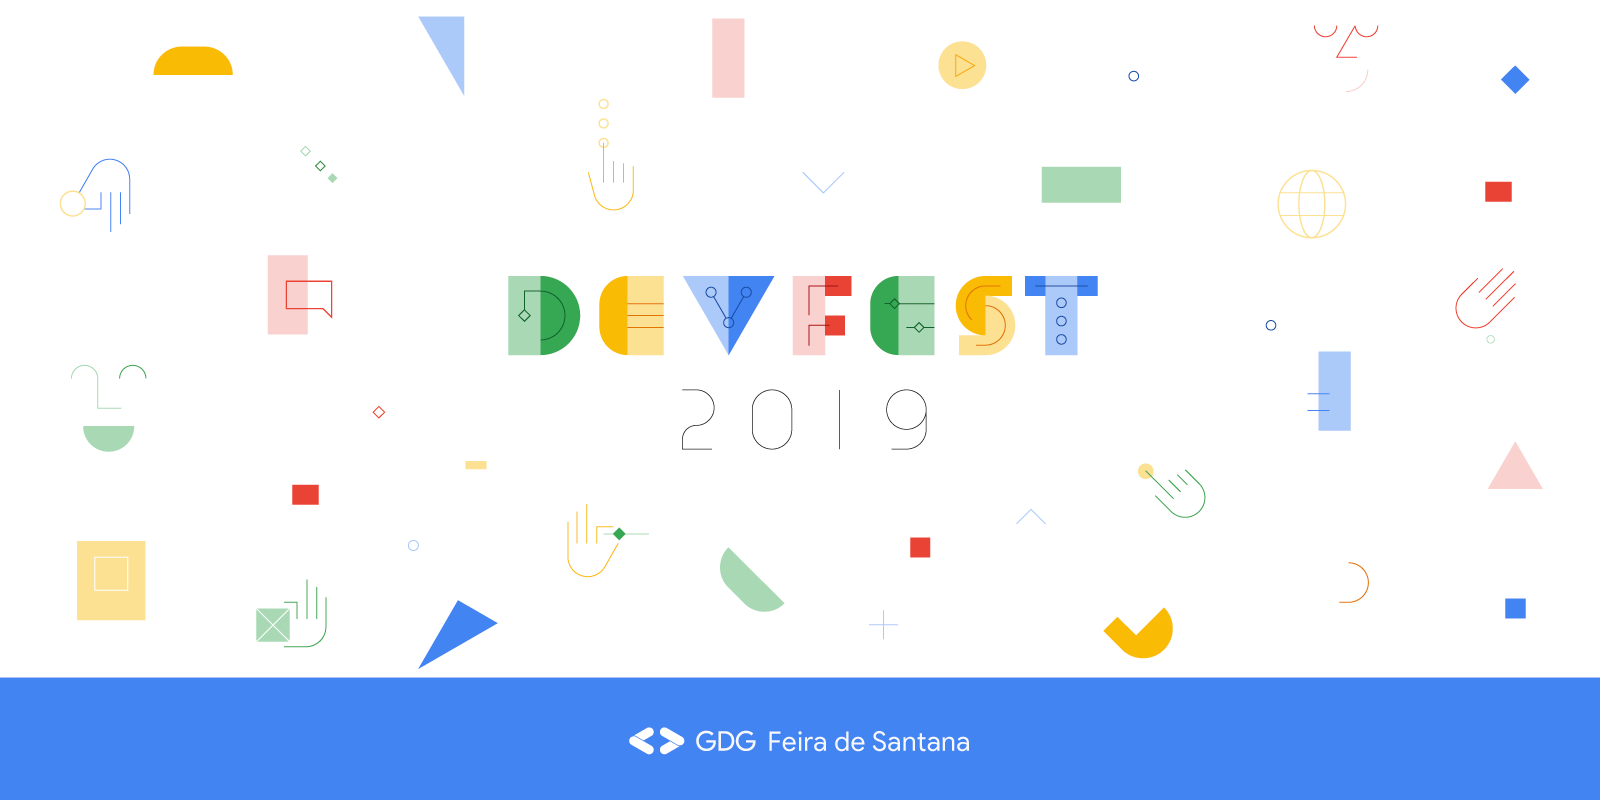
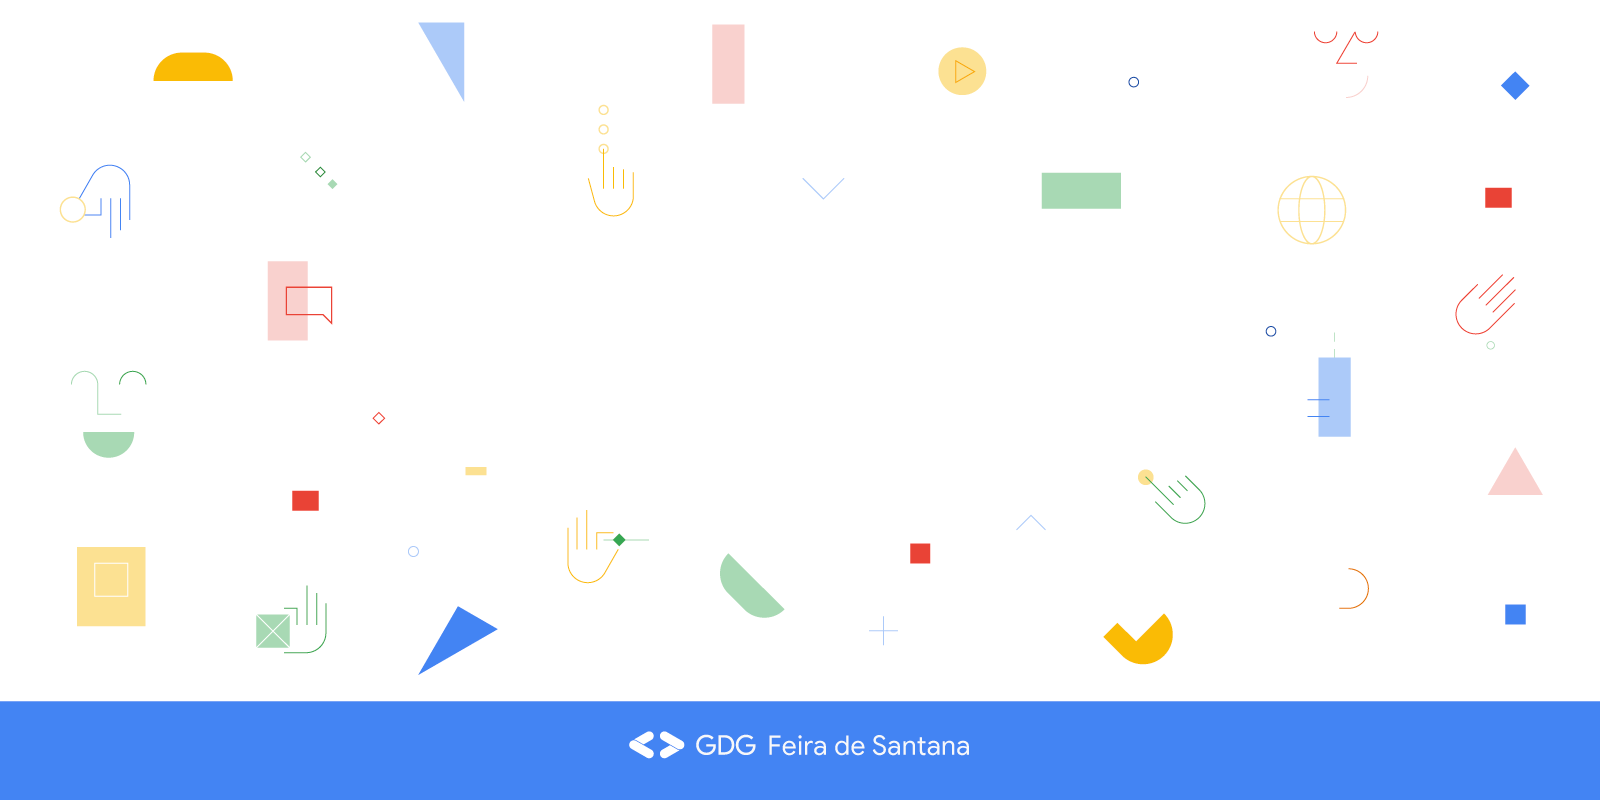
Alterações (Responsividade)

diff --git a/_site/index.html b/_site/index.html
@@ -50,18 +50,23 @@
 </nav>
   <div id="particles-js" style="background-image: url(assets/background.png)">
   <div class="header">
-      <h1>
-        <span class="site-title">  </span>
-        <span class="site-description">  </span>
-      </h1>
-      
-      <div class="header-links">
-        <!-- <a class="link" href="#about" data-scroll>About Me</a> -->
-      </div>
+    
+    <div  class="mt-5">
+      <img class="img-fluid" src="assets/logo.png" alt="" style="min-width: 300px">
+    </div>
+    
+
+    <h1>
+      <span class="site-title"> </span>
+      <span class="site-description"> </span>
+    </h1>
+
+    <div class="header-links">
+      <!-- <a class="link" href="#about" data-scroll>About Me</a> -->
+    </div>
   </div>
   <a class="down" href="#about" data-scroll><i class="icon fa fa-chevron-down" aria-hidden="true"></i></a>
 </div>
-
   <section id="about">
     <br>
     <div class="user-details">
@@ -96,7 +101,7 @@
 
 
 
-<div style="background-image: url(assets/background2.png);background-attachment: fixed;">
+<div style="background-image: url(assets/background2.png);background-attachment: fixed">
     
     
     <!-- Modal -->
@@ -125,7 +130,7 @@
     <div class="container">
 
         <h1 style="text-align: center">Palestrantes</h1>
-        <div id="multi-item-example" class="carousel slide carousel-multi-item" data-ride="carousel">
+        <div id="multi-item-example" class="carousel slide carousel-multi-item" data-ride="carousel" style="height: 400px">
 
             <!--Controls->
             <div class="controls-top">

diff --git a/_includes/header.html b/_includes/header.html
@@ -1,13 +1,19 @@
 <div id="particles-js" style="background-image: url({{ site.imagem }})">
   <div class="header">
-      <h1>
-        <span class="site-title">{% if site.imagem %}  {%else%}{{ site.nome}}{% endif %}</span>
-        <span class="site-description">{% if site.imagem %}  {%else%}{{ site.descricao}}{% endif %}</span>
-      </h1>
-      
-      <div class="header-links">
-        <!-- <a class="link" href="#about" data-scroll>About Me</a> -->
-      </div>
+    {% if site.imagem_logo_principal %}
+    <div  class="mt-5">
+      <img class="img-fluid" src="{{site.imagem_logo_principal}}" alt="{{site.nome}}" style="min-width: 300px">
+    </div>
+    {% endif %}
+
+    <h1>
+      <span class="site-title">{% if site.imagem_logo_principal %} {%else%}{{ site.nome}}{% endif %}</span>
+      <span class="site-description">{% if site.imagem_logo_principal %} {%else%}{{ site.descricao}}{% endif %}</span>
+    </h1>
+
+    <div class="header-links">
+      <!-- <a class="link" href="#about" data-scroll>About Me</a> -->
+    </div>
   </div>
   <a class="down" href="#about" data-scroll><i class="icon fa fa-chevron-down" aria-hidden="true"></i></a>
 </div>

diff --git a/_includes/carouselPalestrantes.html b/_includes/carouselPalestrantes.html
@@ -2,7 +2,7 @@
 
 
 
-<div style="background-image: url({{site.imagem_conteudo}});background-attachment: fixed;">
+<div style="background-image: url({{site.imagem_conteudo}});background-attachment: fixed">
     
     
     <!-- Modal -->
@@ -31,7 +31,7 @@
     <div class="container">
 
         <h1 style="text-align: center">Palestrantes</h1>
-        <div id="multi-item-example" class="carousel slide carousel-multi-item" data-ride="carousel">
+        <div id="multi-item-example" class="carousel slide carousel-multi-item" data-ride="carousel" style="height: 400px">
 
             <!--Controls->
             <div class="controls-top">
